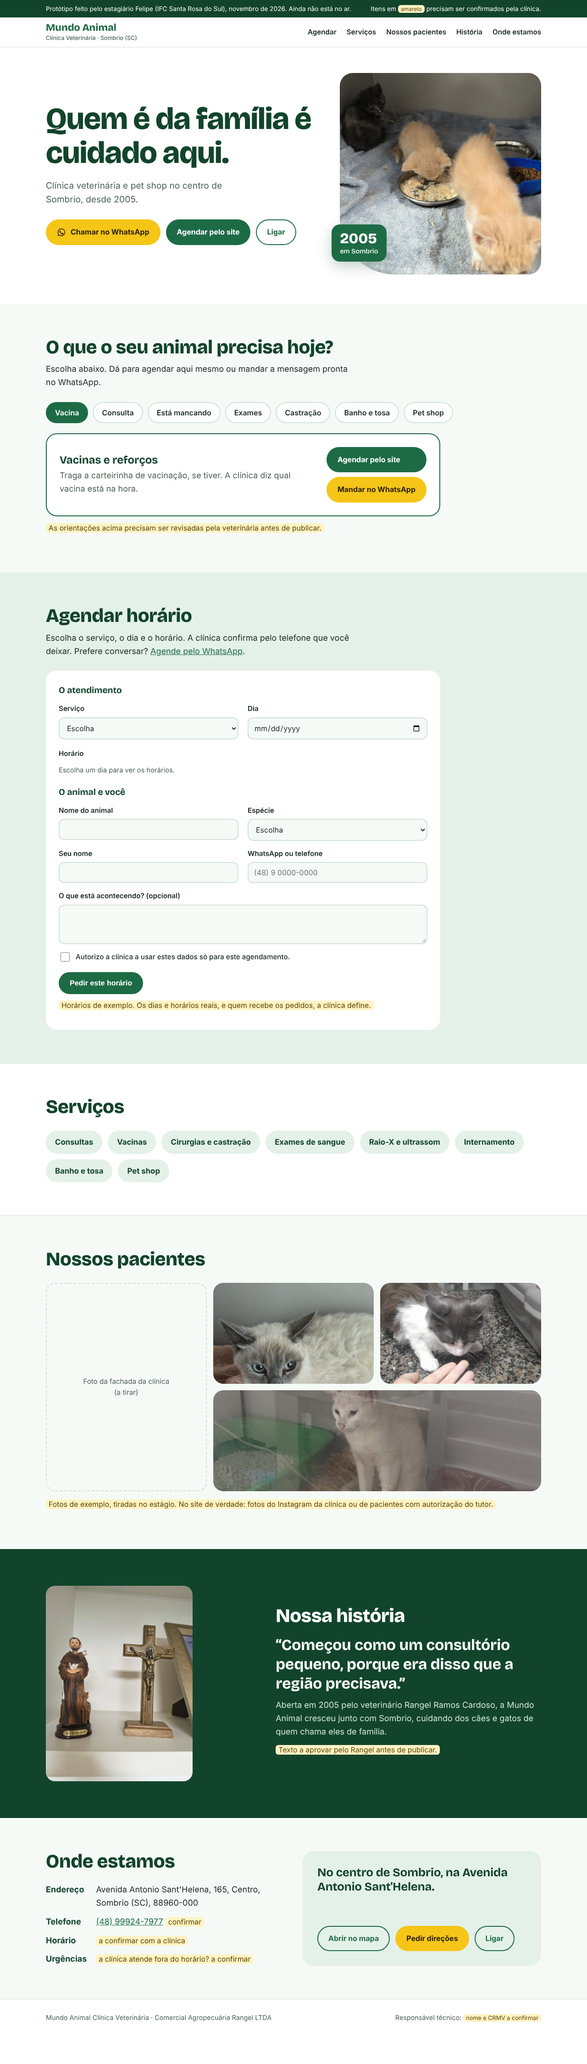
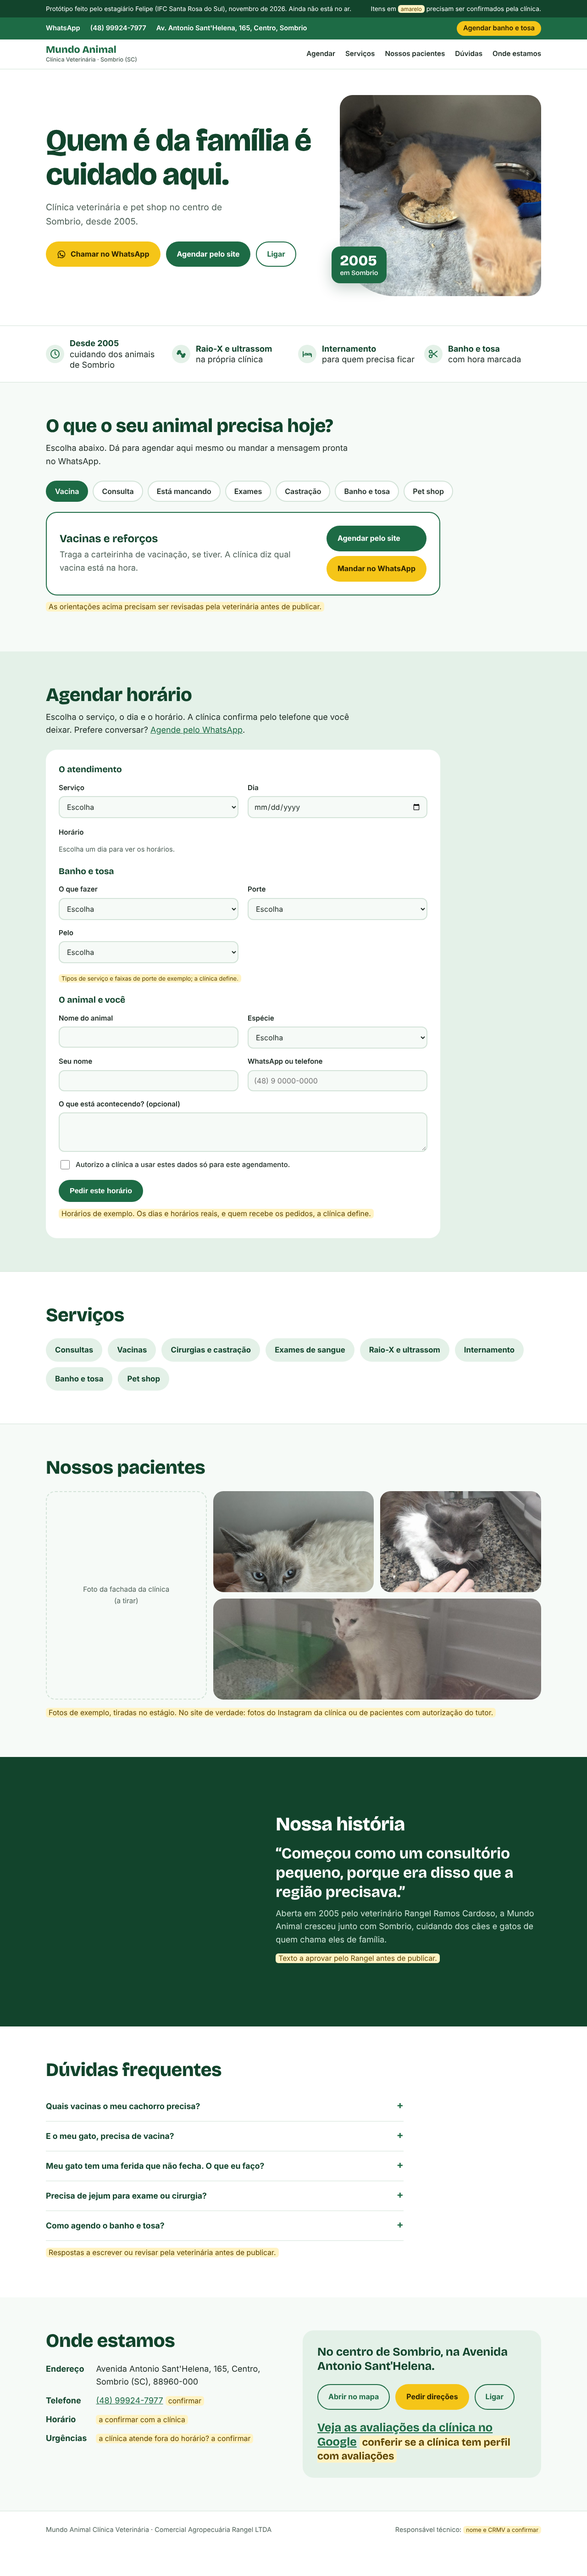
Site v3: faixa de contato, diferenciais, dúvidas, avaliações e agendamento de banho e tosa
Claude-Session: https://claude.ai/code/session_01N8Ng2QuhzTmD121TGEQjbp

diff --git a/estagio/defesa/site-prototipo/index.html b/estagio/defesa/site-prototipo/index.html
@@ -93,6 +93,35 @@ input:focus,select:focus,textarea:focus{border-color:var(--verde);outline:none}
 .confirmado h3{font-size:1.5rem}
 @media (max-width:640px){fieldset{grid-template-columns:1fr}#form-agenda,.confirmado{padding:20px}}
 
+/* faixa de contato */
+.faixa-contato{background:var(--verde);font-size:.92rem}
+.faixa-contato .wrap{display:flex;flex-wrap:wrap;gap:6px 22px;align-items:center;padding-top:8px;padding-bottom:8px}
+.faixa-contato a{color:#fff;text-decoration:none;font-weight:600}
+.faixa-contato a:hover{text-decoration:underline}
+.faixa-contato .destaque{margin-left:auto;background:var(--amarelo);color:var(--amarelo-texto);border-radius:999px;padding:4px 14px}
+@media (prefers-color-scheme: dark){.faixa-contato a{color:#0f1914}}
+@media (max-width:760px){.faixa-contato .so-largo{display:none}.faixa-contato .destaque{margin-left:0}}
+
+/* diferenciais */
+.diferenciais{background:var(--papel);border-block:1px solid var(--linha)}
+.diferenciais ul{list-style:none;display:grid;grid-template-columns:repeat(4,1fr);gap:20px;padding-top:26px;padding-bottom:26px;margin:0 auto}
+.diferenciais li,.diferenciais li a{display:flex;gap:12px;align-items:center;color:var(--texto);text-decoration:none;line-height:1.3}
+.diferenciais svg{width:40px;height:40px;flex:none;color:var(--verde);background:var(--menta);border-radius:50%;padding:8px}
+.diferenciais b{display:block;color:var(--verde-escuro)}
+.diferenciais li a:hover b{text-decoration:underline}
+@media (max-width:860px){.diferenciais ul{grid-template-columns:1fr 1fr}}
+
+/* dúvidas */
+.duvidas{padding:72px 0;background:var(--papel)}
+.faq{max-width:780px;margin-top:24px}
+.faq details{border-bottom:1px solid var(--linha);padding:4px 0}
+.faq summary{cursor:pointer;font-weight:700;font-size:1.1rem;padding:14px 0;color:var(--verde-escuro);list-style:none;display:flex;justify-content:space-between;gap:16px}
+.faq summary::-webkit-details-marker{display:none}
+.faq summary::after{content:"+";font-size:1.4rem;line-height:1;color:var(--verde)}
+.faq details[open] summary::after{content:"−"}
+.faq p{margin:0 0 16px;color:var(--suave);max-width:64ch}
+.avaliacoes{margin:0}
+
 /* abertura */
 .abertura{background:var(--papel);padding:56px 0 64px}
 .abertura .wrap{display:grid;grid-template-columns:1.15fr .85fr;gap:48px;align-items:center}
@@ -188,6 +217,15 @@ footer .wrap{display:flex;flex-wrap:wrap;gap:8px 24px;justify-content:space-betw
   </div>
 </div>
 
+<div class="faixa-contato">
+  <div class="wrap">
+    <a class="zap" href="#" data-msg="Olá! Vim pelo site e gostaria de falar com a clínica.">WhatsApp</a>
+    <a href="tel:+5548999247977">(48) 99924-7977</a>
+    <a href="#onde" class="so-largo">Av. Antonio Sant'Helena, 165, Centro, Sombrio</a>
+    <a href="#agendar" data-servico="Banho e tosa" class="destaque">Agendar banho e tosa</a>
+  </div>
+</div>
+
 <header class="topo">
   <div class="wrap">
     <a class="marca" href="#inicio">Mundo Animal<small>Clínica Veterinária · Sombrio (SC)</small></a>
@@ -195,7 +233,7 @@ footer .wrap{display:flex;flex-wrap:wrap;gap:8px 24px;justify-content:space-betw
       <a href="#agendar">Agendar</a>
       <a href="#servicos">Serviços</a>
       <a href="#pacientes">Nossos pacientes</a>
-      <a href="#historia">História</a>
+      <a href="#duvidas">Dúvidas</a>
       <a href="#onde">Onde estamos</a>
     </nav>
   </div>
@@ -222,6 +260,15 @@ footer .wrap{display:flex;flex-wrap:wrap;gap:8px 24px;justify-content:space-betw
       <div class="selo" aria-hidden="true"><b>2005</b><span>em Sombrio</span></div>
     </div>
   </div>
+</section>
+
+<section class="diferenciais" aria-label="Por que a Mundo Animal">
+  <ul class="wrap">
+    <li><svg viewBox="0 0 24 24" aria-hidden="true"><circle cx="12" cy="12" r="9" fill="none" stroke="currentColor" stroke-width="2"/><path d="M12 7v5l3 2" fill="none" stroke="currentColor" stroke-width="2" stroke-linecap="round"/></svg><span><b>Desde 2005</b> cuidando dos animais de Sombrio</span></li>
+    <li><svg viewBox="0 0 24 24" aria-hidden="true"><path d="M7 4a3 3 0 0 0-2.8 4.1A3 3 0 0 0 6 13.8l4.2-4.2a3 3 0 0 0-3.2-5.6Zm10 16a3 3 0 0 0 2.8-4.1A3 3 0 0 0 18 10.2l-4.2 4.2a3 3 0 0 0 3.2 5.6ZM8.5 11.5l4 4 3-3-4-4Z" fill="currentColor"/></svg><span><b>Raio-X e ultrassom</b> na própria clínica</span></li>
+    <li><svg viewBox="0 0 24 24" aria-hidden="true"><path d="M3 18V7m0 7h18v4M7 11h4a2 2 0 0 1 2 2v1M15 11h3a3 3 0 0 1 3 3" fill="none" stroke="currentColor" stroke-width="2" stroke-linecap="round" stroke-linejoin="round"/></svg><span><b>Internamento</b> para quem precisa ficar</span></li>
+    <li><a href="#agendar" data-servico="Banho e tosa"><svg viewBox="0 0 24 24" aria-hidden="true"><circle cx="6" cy="7" r="3" fill="none" stroke="currentColor" stroke-width="2"/><circle cx="6" cy="17" r="3" fill="none" stroke="currentColor" stroke-width="2"/><path d="M8.5 8.6 20 18M8.5 15.4 20 6" fill="none" stroke="currentColor" stroke-width="2" stroke-linecap="round"/></svg><span><b>Banho e tosa</b> com hora marcada</span></a></li>
+  </ul>
 </section>
 
 <section class="precisa" aria-labelledby="t-precisa">
@@ -269,6 +316,19 @@ footer .wrap{display:flex;flex-wrap:wrap;gap:8px 24px;justify-content:space-betw
           <div class="horarios" id="horarios" role="radiogroup" aria-labelledby="rot-hora"></div>
           <p class="dica" id="dica-hora">Escolha um dia para ver os horários.</p>
         </div>
+      </fieldset>
+      <fieldset id="f-banho" hidden>
+        <legend>Banho e tosa</legend>
+        <label>O que fazer
+          <select name="banho_tipo"><option value="">Escolha</option><option>Só banho</option><option>Banho e tosa</option><option>Tosa higiênica</option></select>
+        </label>
+        <label>Porte
+          <select name="porte"><option value="">Escolha</option><option>Pequeno (até 10 kg)</option><option>Médio (10 a 25 kg)</option><option>Grande (mais de 25 kg)</option></select>
+        </label>
+        <label>Pelo
+          <select name="pelo"><option value="">Escolha</option><option>Curto</option><option>Longo</option></select>
+        </label>
+        <p class="dica largo"><span class="pendente">Tipos de serviço e faixas de porte de exemplo; a clínica define.</span></p>
       </fieldset>
       <fieldset>
         <legend>O animal e você</legend>
@@ -332,6 +392,25 @@ footer .wrap{display:flex;flex-wrap:wrap;gap:8px 24px;justify-content:space-betw
   </div>
 </section>
 
+<section class="duvidas" id="duvidas" aria-labelledby="t-duvidas">
+  <div class="wrap">
+    <h2 id="t-duvidas">Dúvidas frequentes</h2>
+    <div class="faq">
+      <details><summary>Quais vacinas o meu cachorro precisa?</summary>
+        <p>Em geral, a polivalente (V8 ou V10) e a antirrábica, com reforço todo ano. Filhotes tomam uma série de doses. A veterinária monta o calendário certo para o seu cão.</p></details>
+      <details><summary>E o meu gato, precisa de vacina?</summary>
+        <p>Precisa, mesmo que não saia de casa. A veterinária indica quais vacinas e quando. A clínica também faz o teste rápido de FIV e FeLV.</p></details>
+      <details><summary>Meu gato tem uma ferida que não fecha. O que eu faço?</summary>
+        <p>Traga-o para avaliação. Feridas que não cicatrizam em gatos podem ser esporotricose, que também passa para pessoas. Até lá, use luvas para mexer nele.</p></details>
+      <details><summary>Precisa de jejum para exame ou cirurgia?</summary>
+        <p>Alguns exames de sangue e toda cirurgia pedem jejum. A clínica orienta o preparo quando você agenda.</p></details>
+      <details><summary>Como agendo o banho e tosa?</summary>
+        <p>Aqui mesmo no site, em <a href="#agendar" data-servico="Banho e tosa">Agendar banho e tosa</a>, ou pelo WhatsApp. Diga o porte e o tipo de pelo para a clínica reservar o tempo certo.</p></details>
+    </div>
+    <p><span class="pendente">Respostas a escrever ou revisar pela veterinária antes de publicar.</span></p>
+  </div>
+</section>
+
 <section class="onde" id="onde" aria-labelledby="t-onde">
   <div class="wrap">
     <div>
@@ -350,6 +429,7 @@ footer .wrap{display:flex;flex-wrap:wrap;gap:8px 24px;justify-content:space-betw
         <a class="btn btn-zap zap" href="#" data-msg="Olá! Como faço para chegar na clínica?">Pedir direções</a>
         <a class="btn btn-linha" href="tel:+5548999247977">Ligar</a>
       </div>
+      <p class="avaliacoes"><a href="https://www.google.com/maps/search/?api=1&query=Mundo+Animal+Cl%C3%ADnica+Veterin%C3%A1ria+Sombrio" target="_blank" rel="noopener">Veja as avaliações da clínica no Google</a> <span class="pendente">conferir se a clínica tem perfil com avaliações</span></p>
     </div>
   </div>
 </section>
@@ -443,12 +523,23 @@ function montarHorarios(){
   });
 }
 dia.addEventListener("change", montarHorarios);
+const selServico = document.getElementById("f-servico"), fsBanho = document.getElementById("f-banho");
+function atualizarBanho(){ fsBanho.hidden = selServico.value !== "Banho e tosa"; }
+selServico.addEventListener("change", atualizarBanho);
+document.querySelectorAll("a[data-servico]").forEach(a => a.addEventListener("click", () => {
+  selServico.value = a.dataset.servico; atualizarBanho();
+}));
 form.addEventListener("input", () => { erro.hidden = true; });
 form.addEventListener("submit", ev => {
   ev.preventDefault();
   const f = new FormData(form);
   const faltando = [];
   if (!f.get("servico")) faltando.push("o serviço");
+  if (f.get("servico") === "Banho e tosa") {
+    if (!f.get("banho_tipo")) faltando.push("o tipo de banho");
+    if (!f.get("porte")) faltando.push("o porte");
+    if (!f.get("pelo")) faltando.push("o pelo");
+  }
   if (!f.get("dia")) faltando.push("o dia");
   if (!hora) faltando.push("o horário");
   if (!f.get("animal")) faltando.push("o nome do animal");
@@ -459,14 +550,16 @@ form.addEventListener("submit", ev => {
   if (faltando.length) { erro.textContent = "Falta preencher: " + faltando.join(", ") + "."; erro.hidden = false; return; }
   erro.hidden = true;
   const dataBR = new Date(f.get("dia") + "T12:00").toLocaleDateString("pt-BR", {weekday:"long", day:"2-digit", month:"2-digit"});
-  const resumo = f.get("servico") + " para " + f.get("animal") + " (" + f.get("especie").toLowerCase() + "), " + dataBR + ", às " + hora + ".";
+  const ehBanho = f.get("servico") === "Banho e tosa";
+  const nomeServico = ehBanho ? f.get("banho_tipo") + " (porte " + f.get("porte").split(" ")[0].toLowerCase() + ", pelo " + f.get("pelo").toLowerCase() + ")" : f.get("servico");
+  const resumo = nomeServico + " para " + f.get("animal") + " (" + f.get("especie").toLowerCase() + "), " + dataBR + ", às " + hora + ".";
   document.getElementById("c-resumo").textContent = resumo;
   const msg = "Olá! Fiz um pedido de horário pelo site.\n" + resumo + "\nNome: " + f.get("tutor") + "\nTelefone: " + f.get("fone") + (f.get("obs") ? "\nObservação: " + f.get("obs") : "");
   document.getElementById("c-zap").href = link(msg);
   form.hidden = true; conf.hidden = false; conf.focus();
 });
 document.getElementById("c-novo").addEventListener("click", () => {
-  form.reset(); montarHorarios(); conf.hidden = true; form.hidden = false;
+  form.reset(); montarHorarios(); atualizarBanho(); conf.hidden = true; form.hidden = false;
 });
 </script>
 </body>

diff --git a/estagio/defesa/site-prototipo/LEIAME.md b/estagio/defesa/site-prototipo/LEIAME.md
@@ -7,6 +7,15 @@
 > - a história ficou com uma frase;
 > - a letra está maior, e entrou um botão **Ligar** (para o público mais velho).
 >
+> **Versão 3 (25/11): elementos da referência e banho e tosa.** Com base no site do Hospital Veterinário Criciúma (ver `referencia-hospital-criciuma.md`), o site ganhou:
+> - uma **faixa de contato no topo**, com WhatsApp, telefone, endereço e o botão "Agendar banho e tosa";
+> - uma **faixa de diferenciais** com 4 itens verdadeiros (desde 2005, raio-X e ultrassom, internamento, banho e tosa);
+> - **dúvidas frequentes**, com 5 perguntas e respostas *a revisar pela veterinária*;
+> - um link para as **avaliações no Google**;
+> - o **agendamento de banho e tosa**: ao escolher esse serviço, aparecem o tipo (só banho, banho e tosa, tosa higiênica), o porte e o pelo, e tudo isso entra no resumo e na mensagem de WhatsApp.
+>
+> As fotos de banco de imagens ficaram de fora: precisam de liberação de rede e de escolha caso a caso.
+>
 > As fotos de animais são **de exemplo**, tiradas no estágio. No site de verdade, use fotos do Instagram da clínica ou de pacientes com autorização do tutor.
 
 A clínica ainda não tem site. Este é um protótipo de **uma página**, feito para o Felipe mostrar à clínica e na defesa. **Não está publicado em lugar nenhum.**
